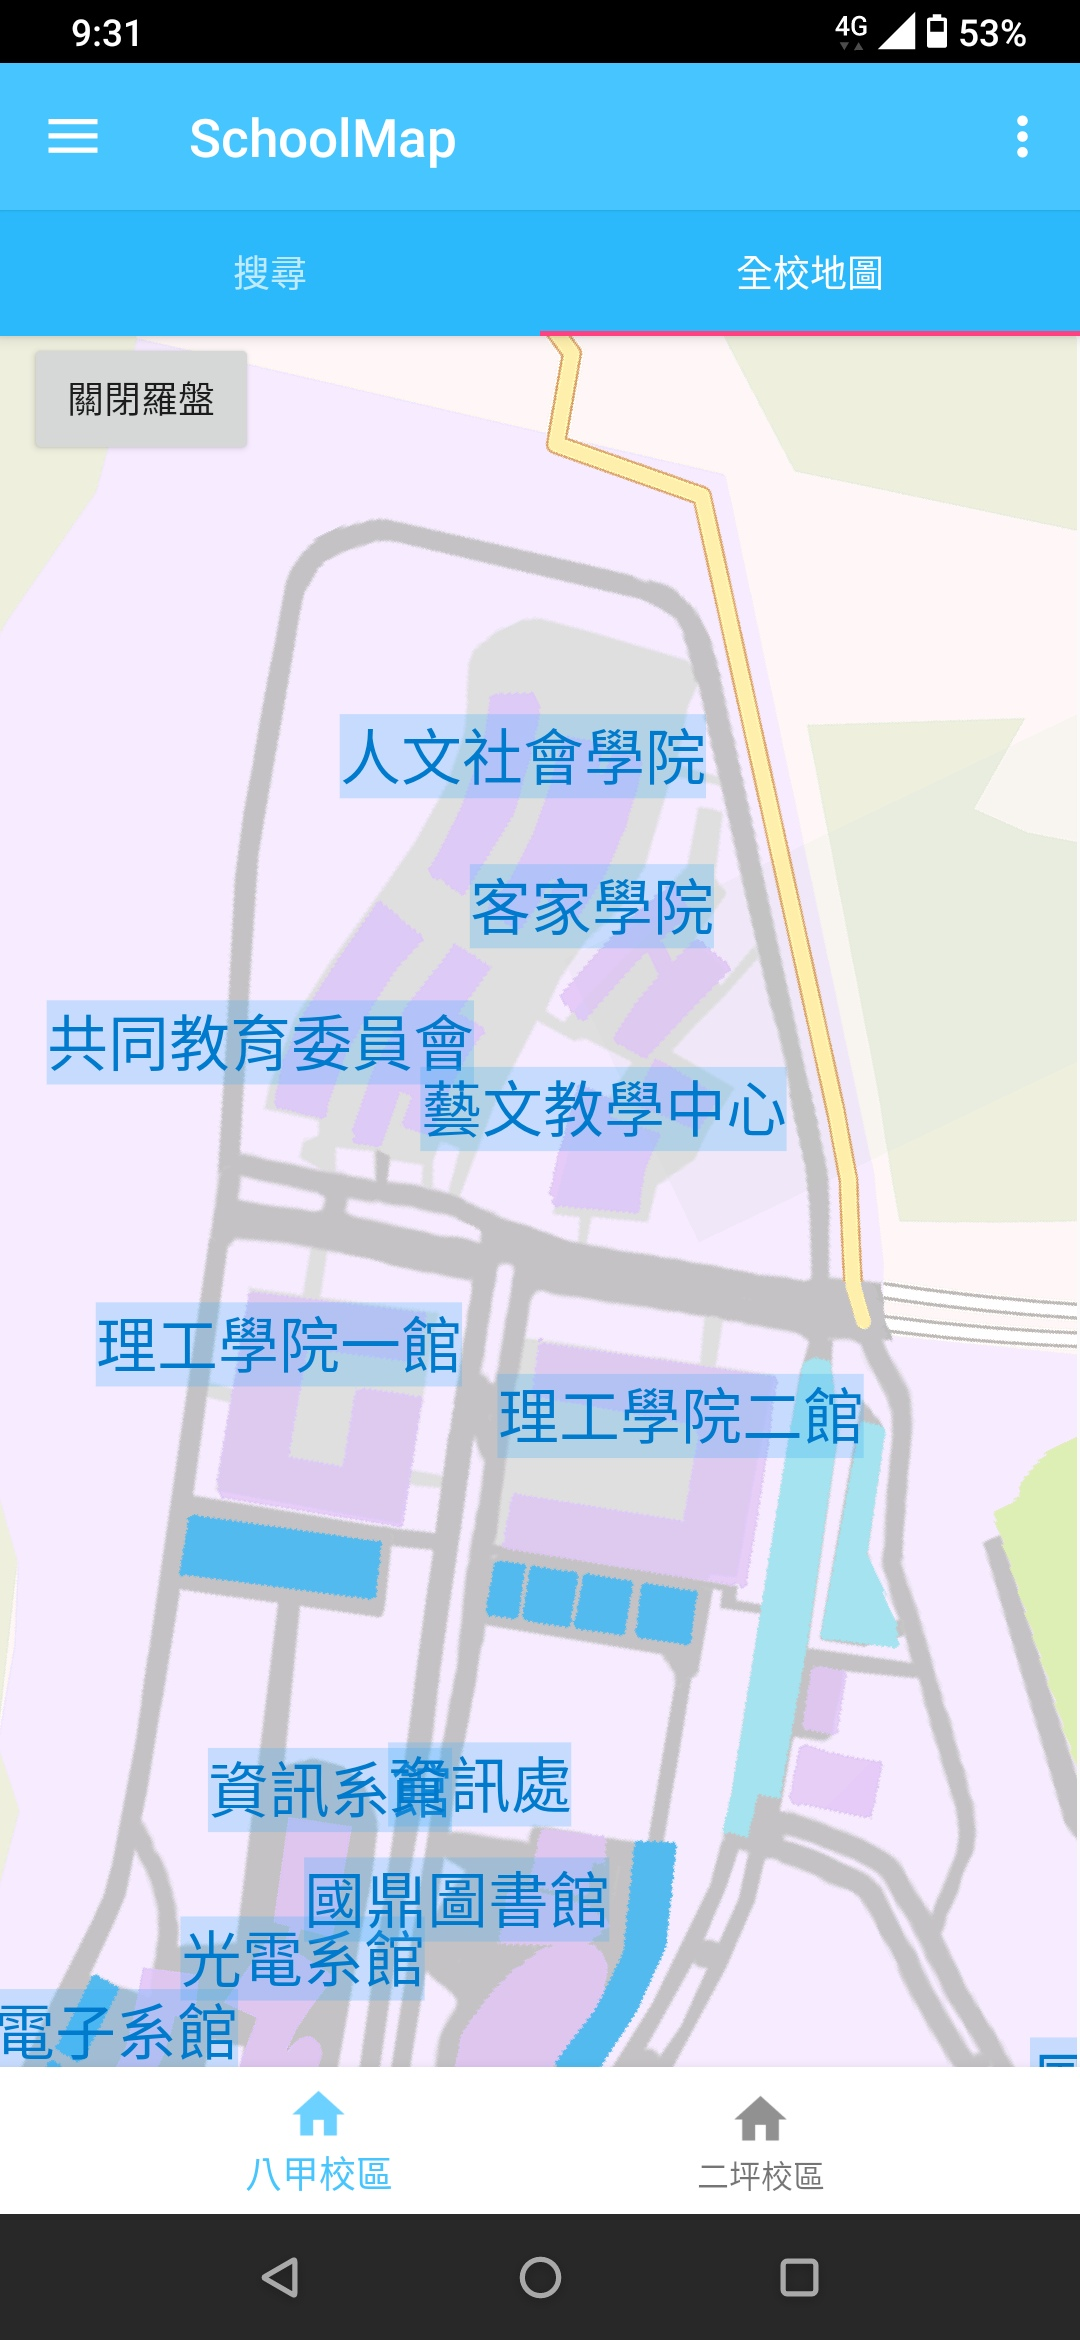
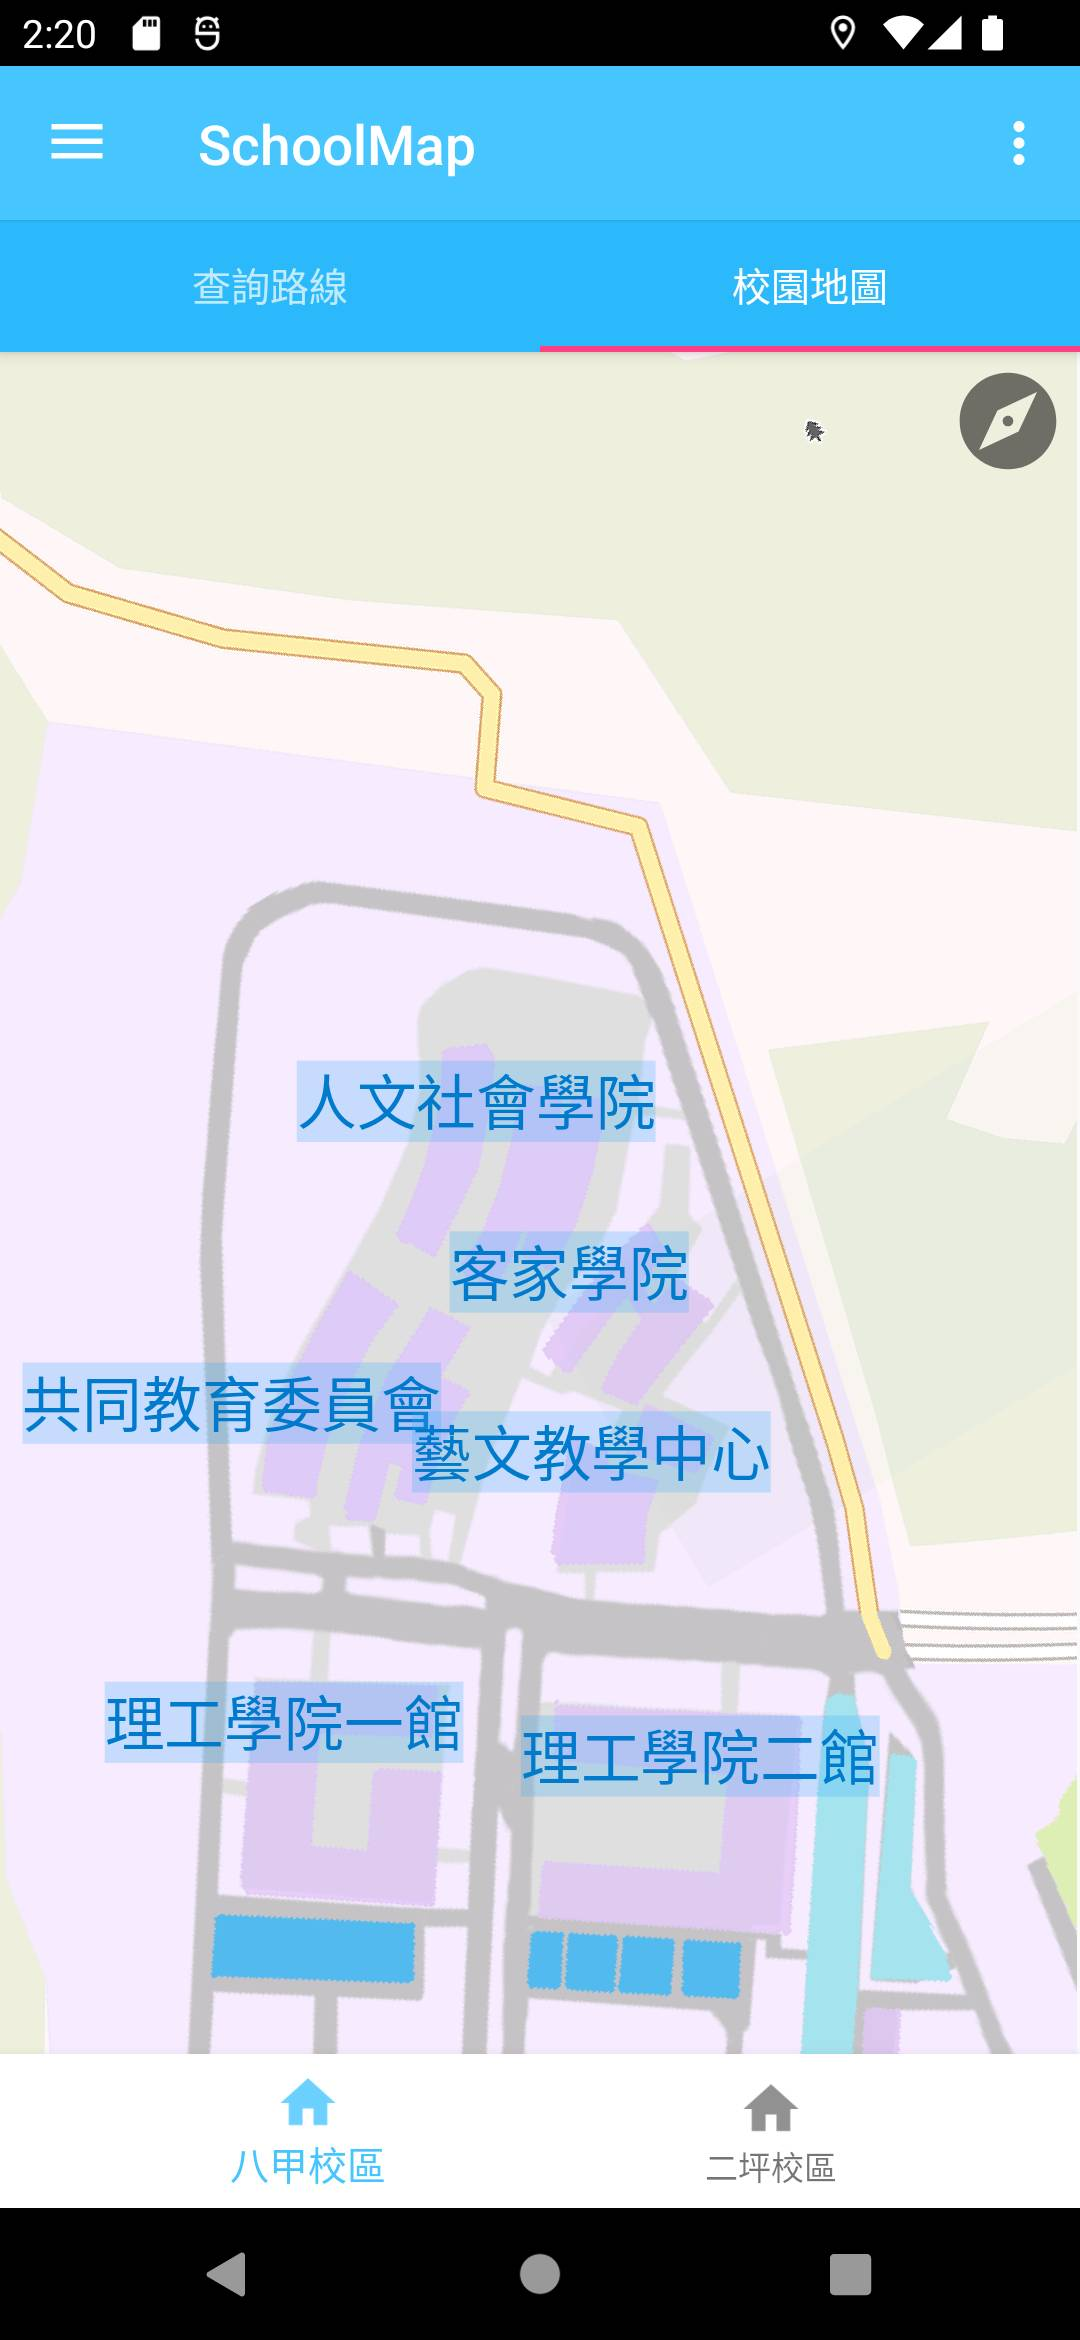
Update img

diff --git a/app/src/main/java/com/vine/projectdemo/MapFragment.java b/app/src/main/java/com/vine/projectdemo/MapFragment.java
@@ -274,6 +274,8 @@ public class MapFragment extends Fragment implements SensorEventListener, Locati
             LabelMarker[i].setText(TextString);
             LabelMarker[i].setTextColor(Color.parseColor("#ff007acc"));
             LabelMarker[i].setBackgroundColor(Color.parseColor("#4032abfc"));
+            LabelMarker[i].setScaleY((float) 0.75);
+            LabelMarker[i].setScaleX((float) 0.75);
             //tileView.getMarkerLayout().setMarkerTapListener(markerTapListener);
             tileView.addMarker(LabelMarker[i], x, y, null, null);
         }
